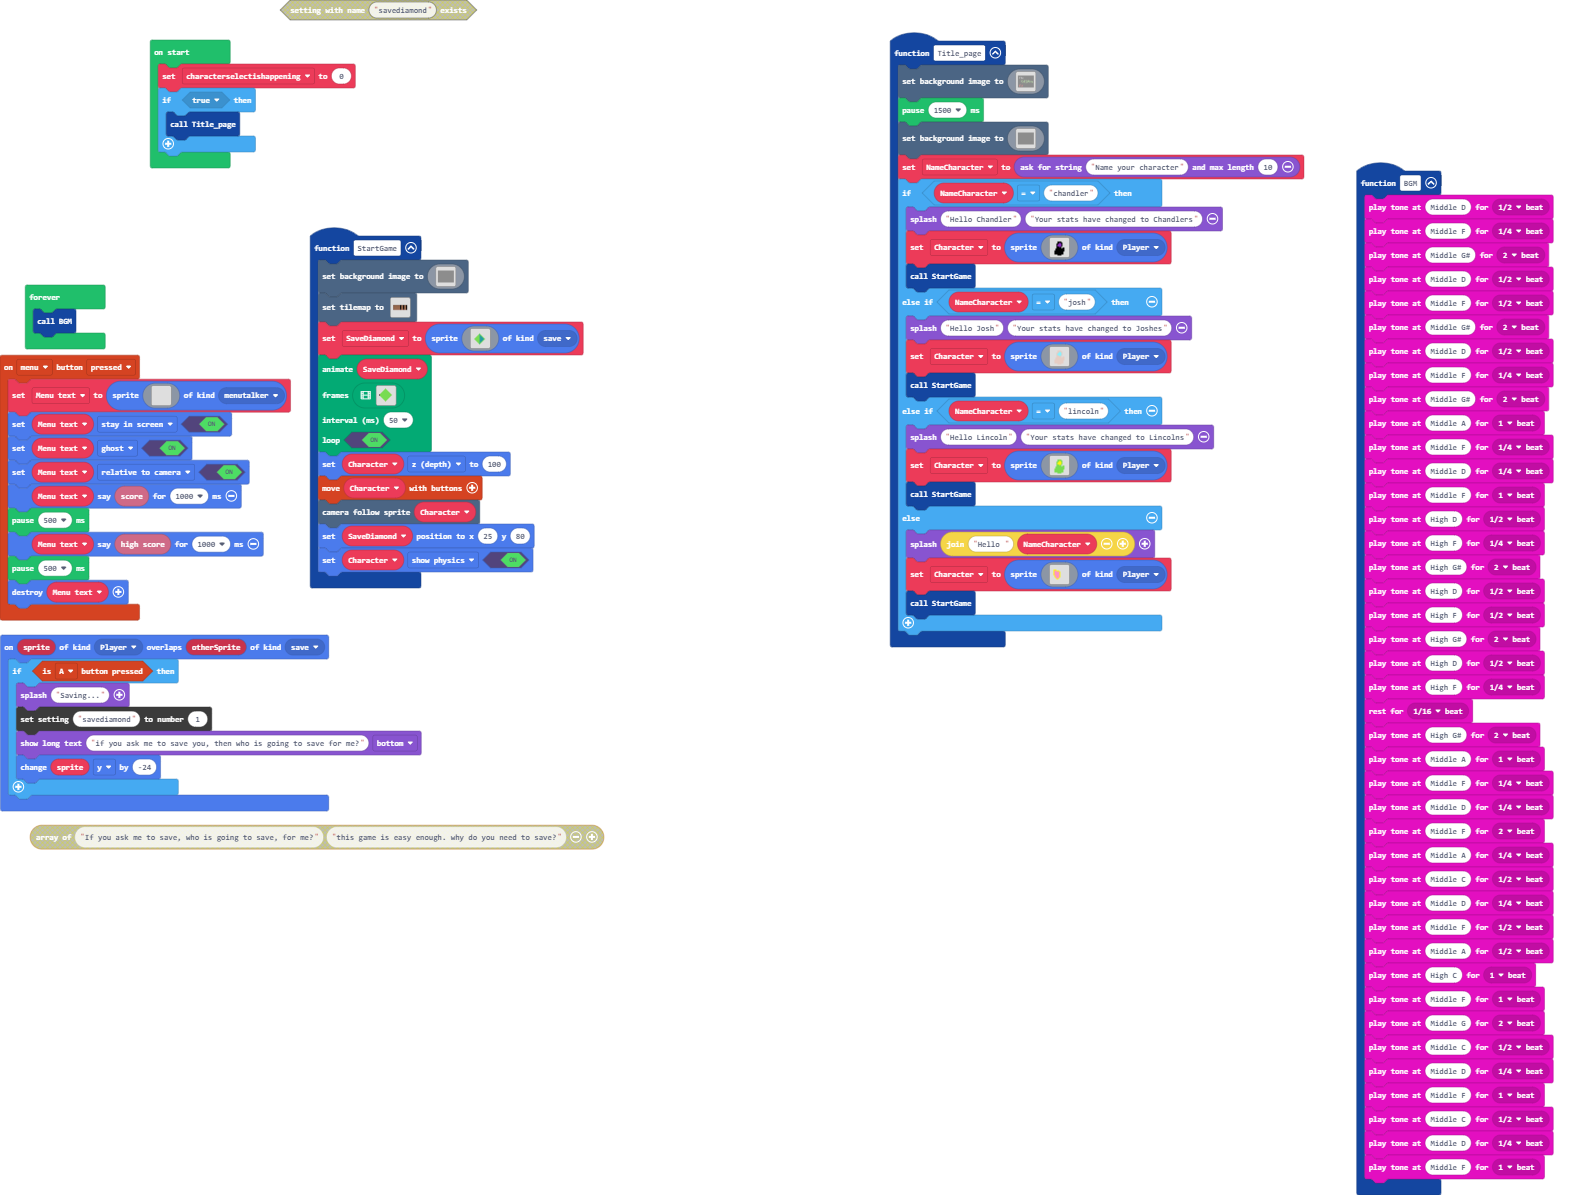
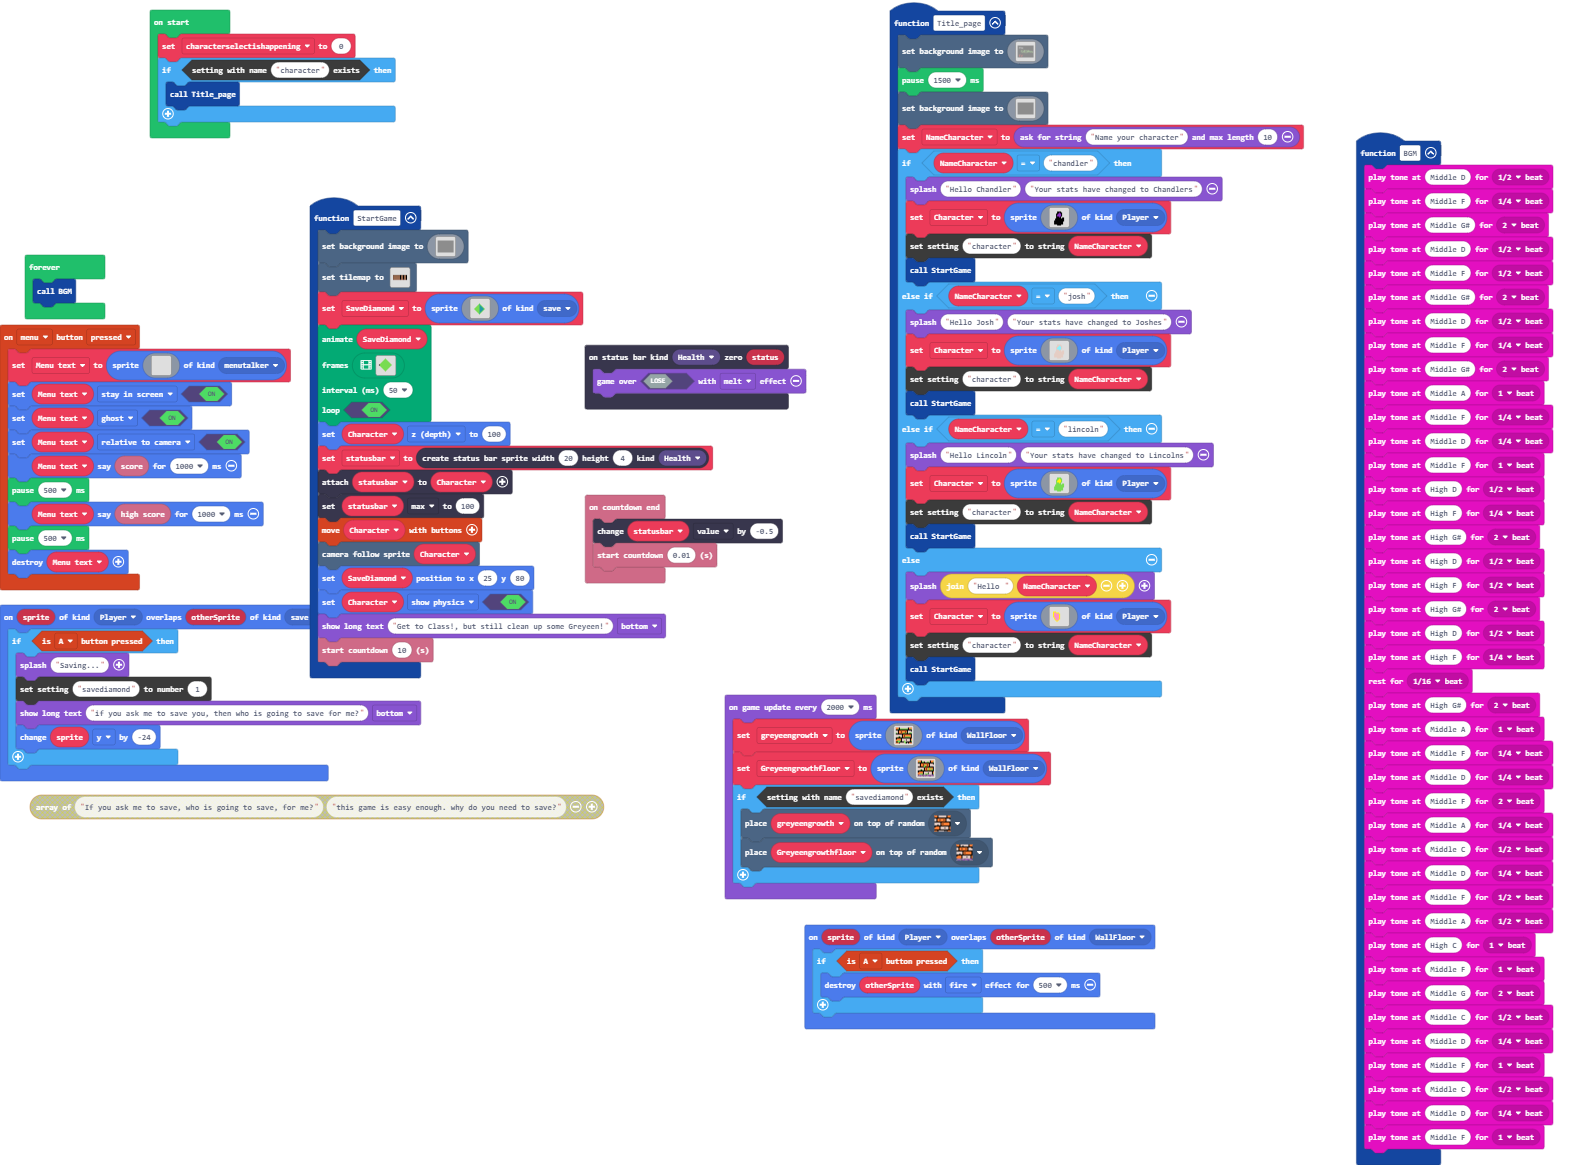
*bugfixes and minor changes, but lots more to come!

Changed region(s): [[0.4345, 0.0, 0.993, 0.9888], [0.0, 0.1545, 0.5275, 0.7107], [0.0931, 0.0, 0.3103, 0.1545]]

diff --git a/main.ts b/main.ts
@@ -3,6 +3,7 @@ namespace SpriteKind {
     export const Cursor = SpriteKind.create()
     export const save = SpriteKind.create()
     export const menutalker = SpriteKind.create()
+    export const WallFloor = SpriteKind.create()
 }
 sprites.onOverlap(SpriteKind.Player, SpriteKind.save, function (sprite, otherSprite) {
     if (controller.A.isPressed()) {
@@ -11,6 +12,15 @@ sprites.onOverlap(SpriteKind.Player, SpriteKind.save, function (sprite, otherSpr
         game.showLongText("if you ask me to save you, then who is going to save for me?", DialogLayout.Bottom)
         sprite.y += -24
     }
+})
+sprites.onOverlap(SpriteKind.Player, SpriteKind.WallFloor, function (sprite, otherSprite) {
+    if (controller.A.isPressed()) {
+        otherSprite.destroy(effects.fire, 500)
+    }
+})
+info.onCountdownEnd(function () {
+    statusbar.value += -0.5
+    info.startCountdown(0.01)
 })
 function BGM () {
     music.playTone(294, music.beat(BeatFraction.Half))
@@ -55,6 +65,9 @@ function BGM () {
     music.playTone(294, music.beat(BeatFraction.Quarter))
     music.playTone(349, music.beat(BeatFraction.Whole))
 }
+statusbars.onZero(StatusBarKind.Health, function (status) {
+    game.over(false, effects.melt)
+})
 function Title_page () {
     scene.setBackgroundImage(img`
         ffffffffffffffffffffffffffffffffffffffffffffffffffffffffffffffffffffffffffffffffffffffffffffffffffffffffffffffffffffffffffffffffffffffffffffffffffffffffffffffff
@@ -322,6 +335,7 @@ function Title_page () {
             . . . f f f f f f f f f . . . . 
             . . . . . . f f f f . . . . . . 
             `, SpriteKind.Player)
+        blockSettings.writeString("character", NameCharacter)
         StartGame()
     } else if (NameCharacter == "josh") {
         game.splash("Hello Josh", "Your stats have changed to Joshes")
@@ -343,6 +357,7 @@ function Title_page () {
             . . . d d d d d d d d d . . . . 
             . . . . . . d d d d . . . . . . 
             `, SpriteKind.Player)
+        blockSettings.writeString("character", NameCharacter)
         StartGame()
     } else if (NameCharacter == "lincoln") {
         game.splash("Hello Lincoln", "Your stats have changed to Lincolns")
@@ -364,6 +379,7 @@ function Title_page () {
             . . . 7 7 7 7 7 7 7 7 7 . . . . 
             . . . . . . 7 7 7 7 . . . . . . 
             `, SpriteKind.Player)
+        blockSettings.writeString("character", NameCharacter)
         StartGame()
     } else {
         game.splash("Hello " + NameCharacter)
@@ -385,6 +401,7 @@ function Title_page () {
             . . . . . . . . . . . . . . . . 
             . . . . . . . . . . . . . . . . 
             `, SpriteKind.Player)
+        blockSettings.writeString("character", NameCharacter)
         StartGame()
     }
 }
@@ -547,7 +564,7 @@ function StartGame () {
         2 . . . . . . . 2 . . 2 . . 2 2 
         2 . . . . . . . . . . . . . 2 2 
         2 2 2 2 2 2 2 2 2 2 2 2 2 2 2 2 
-        `, [myTiles.transparency16,myTiles.tile2,myTiles.tile3,myTiles.tile6,myTiles.tile7,myTiles.tile9,myTiles.tile1,myTiles.tile4,myTiles.tile8,myTiles.tile11], TileScale.Sixteen))
+        `, [myTiles.transparency16,myTiles.tile2,myTiles.tile3,myTiles.tile6,myTiles.tile7,myTiles.tile9,myTiles.tile1,myTiles.tile4,myTiles.tile8,myTiles.tile11,myTiles.tile13], TileScale.Sixteen))
     SaveDiamond = sprites.create(img`
         . . . . . . . . . . . . . . . . 
         . . . . . . . . . . . . . . . . 
@@ -1457,19 +1474,69 @@ function StartGame () {
     true
     )
     Character.z = 100
+    statusbar = statusbars.create(20, 4, StatusBarKind.Health)
+    statusbar.attachToSprite(Character)
+    statusbar.max = 100
     controller.moveSprite(Character)
     scene.cameraFollowSprite(Character)
     SaveDiamond.setPosition(25, 80)
     Character.setFlag(SpriteFlag.ShowPhysics, true)
+    game.showLongText("Get to Class!, but still clean up some Greyeen!", DialogLayout.Bottom)
+    info.startCountdown(10)
 }
+let Greyeengrowthfloor: Sprite = null
+let greyeengrowth: Sprite = null
 let SaveDiamond: Sprite = null
 let Menu_text: Sprite = null
 let Character: Sprite = null
 let NameCharacter = ""
+let statusbar: StatusBarSprite = null
 let characterselectishappening = 0
-if (true) {
+if (blockSettings.exists("character")) {
     Title_page()
 }
+game.onUpdateInterval(2000, function () {
+    greyeengrowth = sprites.create(img`
+        4 4 4 f d d d d d d d d f 4 4 4 
+        4 4 7 f 7 7 7 7 7 7 7 7 f 4 7 4 
+        f f f f f f f f f f f f f f f f 
+        d d f 4 4 4 4 4 4 4 4 f d d d f 
+        d d f 4 4 f 4 4 4 f 4 f d d d d 
+        7 d f 4 4 4 4 7 7 4 7 f d 7 7 7 
+        f f f f f f f f f f f f f f f f 
+        d d d d d d f 4 4 4 4 4 4 4 4 f 
+        d d d d d d f 4 f 4 4 4 4 4 4 f 
+        d d 7 f 7 d f 4 4 7 7 7 7 7 4 f 
+        f f f f f f f f f f f f f f f f 
+        f 4 4 4 4 f d d d d d d d d f 4 
+        4 4 4 4 4 f d d d d f d d d f 4 
+        4 7 7 7 7 f d d 7 d d d d d f 7 
+        f f 7 7 f f f f 7 7 f f f f f f 
+        4 4 4 f d d d d d 7 f d f 4 4 4 
+        `, SpriteKind.WallFloor)
+    Greyeengrowthfloor = sprites.create(img`
+        4 4 4 f d d d d d d d d f 4 4 4 
+        4 7 4 f 7 7 f d d 7 7 d f 4 4 7 
+        f f f f f f f f f f f f f f f f 
+        d d f 4 4 4 4 4 4 4 4 f d d d f 
+        d d f 4 4 f 4 7 4 f 4 f d d d d 
+        d d f 4 4 4 7 7 4 4 4 f d d d d 
+        f f f f f f 7 f f f f f f f f f 
+        d d d d d d f 4 4 4 7 4 7 4 4 f 
+        d d d d d d f 4 f 4 7 4 4 7 4 f 
+        d d 7 f 7 d f 4 4 4 7 4 4 7 7 f 
+        f f f f f f f f f f f f f f f f 
+        f 4 4 4 4 f d d d d d d d d f 4 
+        4 4 4 4 4 f d d d d f d d d f 4 
+        4 4 7 7 7 f d 7 7 7 7 d d d f 7 
+        c b b b c b b b c b a b b b a c 
+        b b a b b c b a b b b a c b b b 
+        `, SpriteKind.WallFloor)
+    if (blockSettings.exists("savediamond")) {
+        tiles.placeOnRandomTile(greyeengrowth, myTiles.tile1)
+        tiles.placeOnRandomTile(Greyeengrowthfloor, myTiles.tile2)
+    }
+})
 forever(function () {
     BGM()
 })

diff --git a/tilemap.g.ts b/tilemap.g.ts
@@ -24,6 +24,10 @@ namespace myTiles {
     export const tile10 = image.ofBuffer(hex``);
     //% fixedInstance jres blockIdentity=images._tile
     export const tile11 = image.ofBuffer(hex``);
+    //% fixedInstance jres blockIdentity=images._tile
+    export const tile12 = image.ofBuffer(hex``);
+    //% fixedInstance jres blockIdentity=images._tile
+    export const tile13 = image.ofBuffer(hex``);
 
     helpers.registerTilemapFactory(function(name: string) {
         switch(helpers.stringTrim(name)) {
